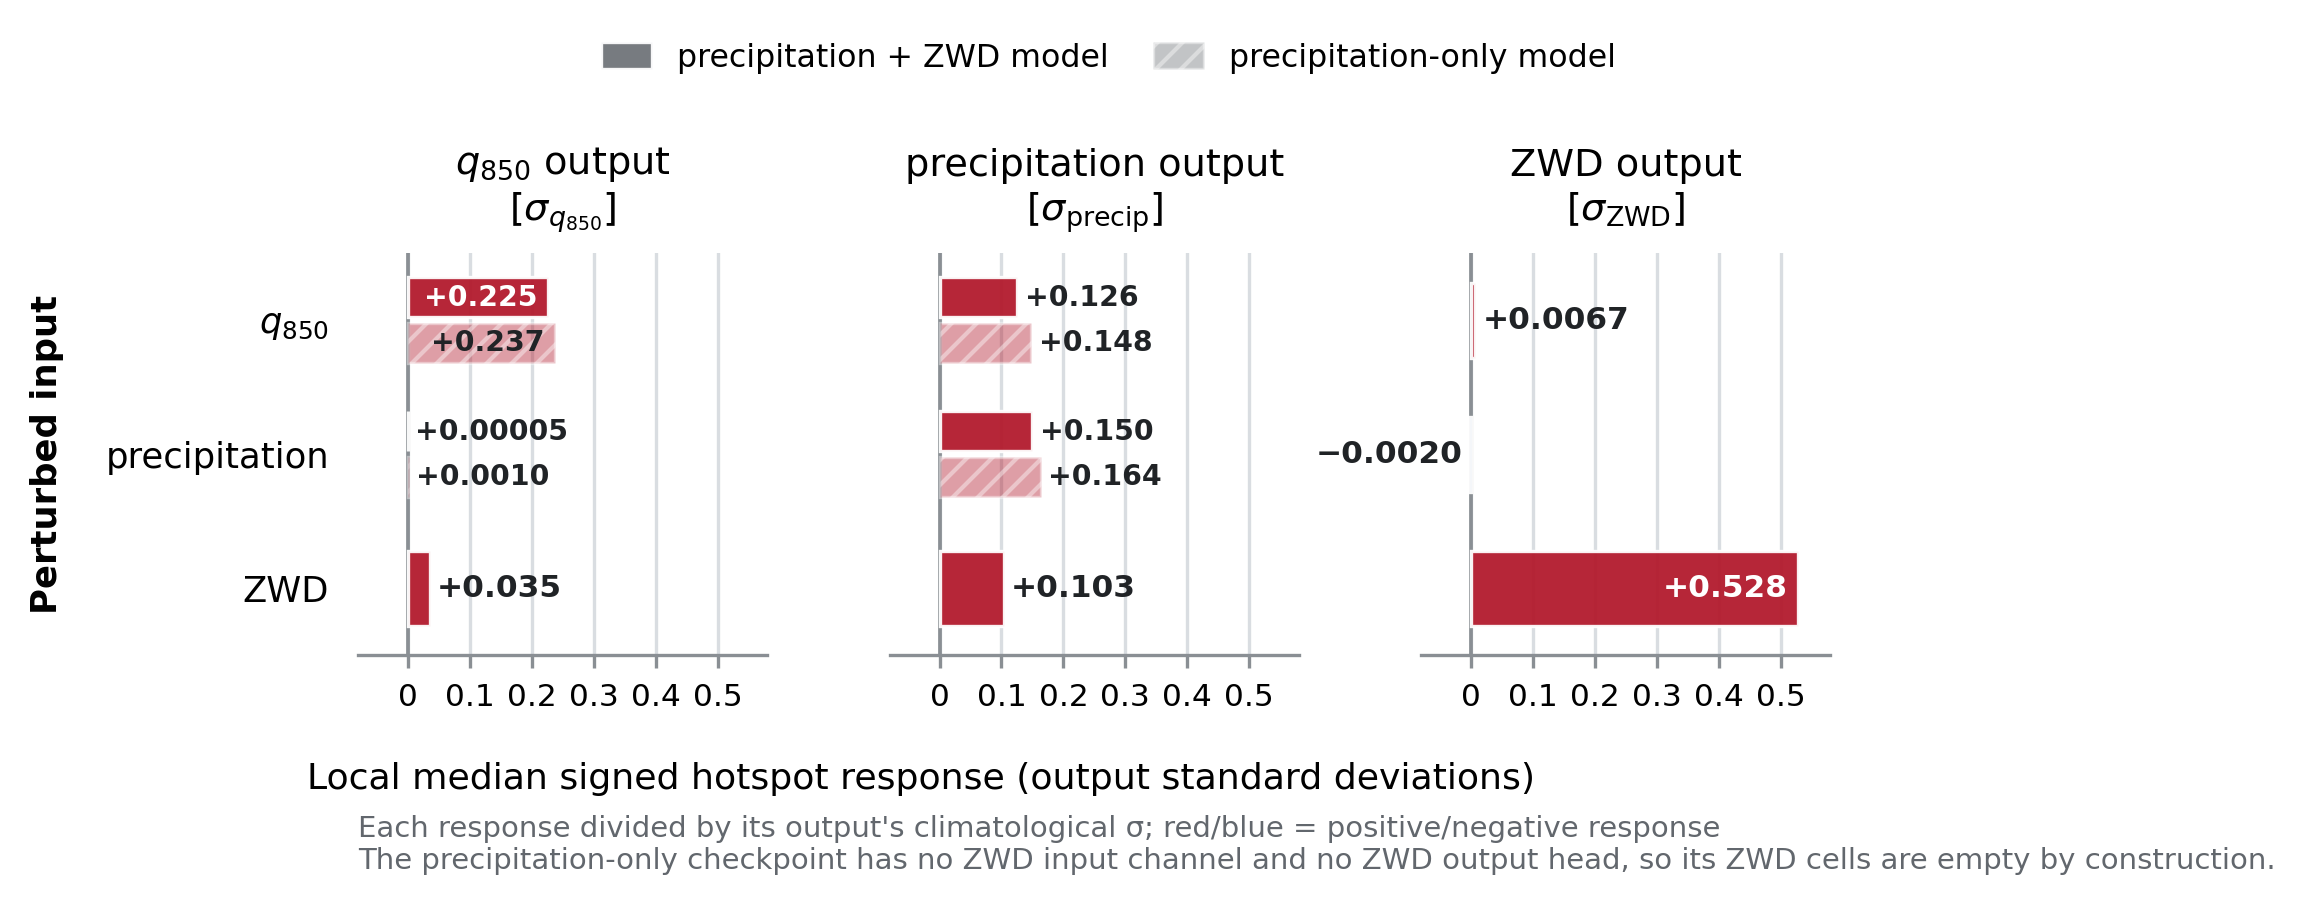
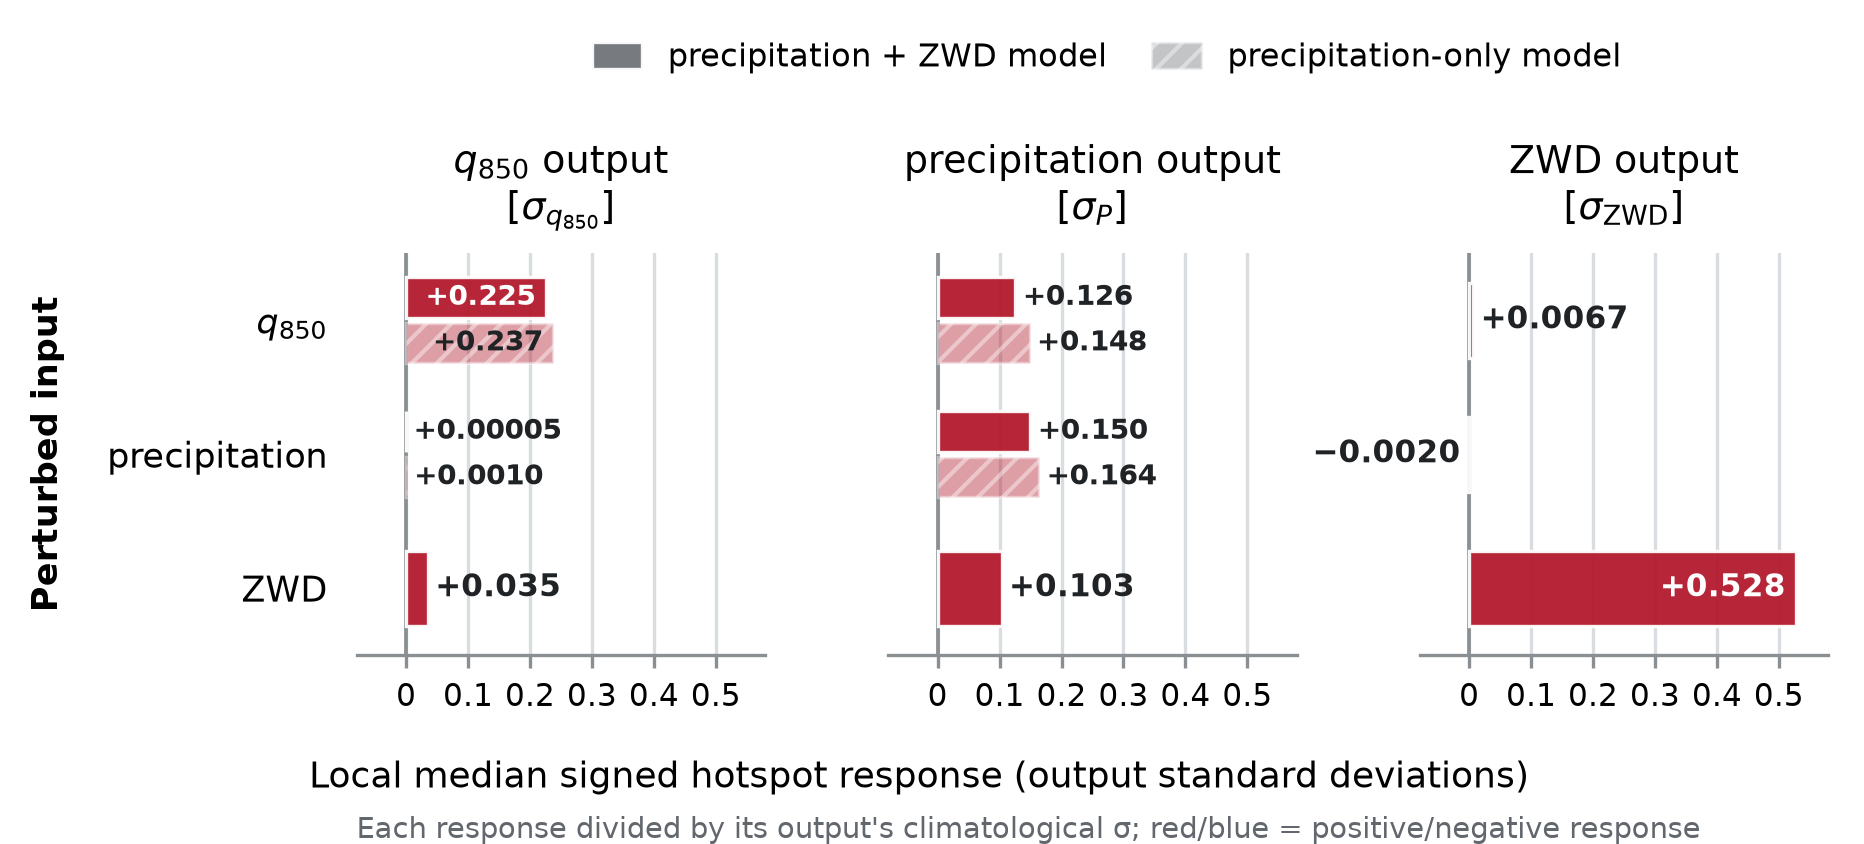
Add more figures from the thesis

diff --git a/08_internal_routing_and_activation_patching/README.md b/08_internal_routing_and_activation_patching/README.md
@@ -36,6 +36,13 @@ larger RMS hidden-state changes while producing far smaller output responses,
 and that cross-model CKA remains approximately 0.989--0.999. Hidden-state
 magnitude alone is therefore not an importance measure.
 
+![Target-level coupling between humidity, precipitation, and ZWD](../figures/target_coupling_bars.png)
+
+*Local median signed hotspot responses, standardized by each output's
+climatological standard deviation. Rows denote perturbed inputs and columns
+predicted outputs. Solid bars show the precipitation+ZWD model and hatched bars
+the precipitation-only model, whose ZWD row and column are empty by design.*
+
 The compact retained evidence is under `results/representation_trace/`:
 portable JSON run configurations, all-pair and stage-metric CSV aggregates,
 and `target_coupling_provenance.md`. These files reproduce the target-coupling
@@ -63,6 +70,14 @@ directory by default. Its JSON paths are portable substitutions for the
 original cluster paths, while measured values and case splits are unchanged.
 The two unit-test files validate mask downsampling, normalization, and
 aggregation without importing Aurora.
+
+![Activation-patching recovery for ZWD, humidity, and precipitation](../figures/large_activation_patch_unified_lead6.png)
+
+*Controlled activation-patching recovery at a 6 h lead for ZWD, specific
+humidity, and MSWEP precipitation, reported as medians over the same eight
+cases and 850 hPa specific-humidity target. ZWD is weighted toward the
+high-resolution encoder stage 0 skip, humidity retains more positive
+bottleneck recovery, and precipitation re-localizes in the late decoder.*
 
 Reproduce the paper's standardized coupling panel from the repository root
 with:

diff --git a/05_nanmadol_zwd_case_study/README.md b/05_nanmadol_zwd_case_study/README.md
@@ -12,6 +12,23 @@ storm center. Its pooled saliency is 7.1 times that of the low-near control and
 largest intensity and late-track response. This demonstrates model-internal
 relevance for one case; it is not a cyclone forecast benchmark.
 
+## Figures
+
+![ZWD saliency regions and perturbed Typhoon Nanmadol tracks](../figures/nanmadol_track_overlay.png)
+
+*ZWD attribution and perturbation analysis for Typhoon Nanmadol, initialized
+on 2022-09-17 at 12:00 UTC. The left panel shows smoothed saliency for the
++48 h intensity target and the selected regions. The right panel compares the
+IBTrACS best track with baseline and perturbed Aurora forecasts; hotspot
+perturbations produce the clearest late-lead divergence.*
+
+![Storm-centered ZWD saliency at 24, 48, and 72 hours](../figures/nanmadol_saliency_evolution.png)
+
+*Storm-centered sensitivity of the +24 h, +48 h, and +72 h intensity targets
+to initialized ZWD. The star marks the initialized cyclone center, the squares
+mark the lead-specific forecast target centers, and the circles indicate
+distances of 312, 937, and 1,250 km from each target center.*
+
 `results/storm_centered_xai/` versions the selected-region and saliency-summary
 JSON, while `results/track_perturbation/summary.json` records the perturbation
 setup. Machine-specific source paths were rewritten to repository-relative

diff --git a/07_zwd_precipitation_model_comparison/README.md b/07_zwd_precipitation_model_comparison/README.md
@@ -10,6 +10,16 @@ retained regenerated 22-row table gives 0.772; this 0.001 difference is below
 the precision of the scientific interpretation but is recorded here rather
 than hidden.
 
+## Figure
+
+![Precipitation and ZWD saliency maps and their signed difference](../figures/precip-zwd-saliency-alignment.png)
+
+*Unit-sum-normalized absolute input-gradient saliency of the +6 h 850 hPa
+specific-humidity target with respect to precipitation (left) and ZWD (center)
+in the precipitation+ZWD model for one representative target. Their signed
+difference (right) reveals a small spatial offset within the otherwise shared
+dominant sensitivity structure.*
+
 `cases_diagnostic_22.json` fixes the exact final cohort.
 `results/stage_b_reliance_summary.csv` is the versioned 22-row aggregate used
 for the reported saliency alignment. `cases_precipitation.json` and
@@ -20,7 +30,7 @@ workflow.
 humidity-target, and 2 m temperature IG controls used in the numerical
 validation appendix. The Stage-B comparison is recorded in its CSV aggregate.
 
-## Run the final saliency comparison
+## Run the saliency comparison
 
 Run in a GPU allocation:
 

diff --git a/03_zwd_moisture_relationships/README.md b/03_zwd_moisture_relationships/README.md
@@ -11,6 +11,15 @@ disk-mean ZWD and pressure-weighted column humidity, and 0.921 between
 disk-mean ZWD and 850 hPa humidity. The association is strongest in the lower
 and middle troposphere and weakens aloft.
 
+## Figure
+
+![Vertical ZWD-humidity correlations and the ZWD-column-humidity relationship](../figures/zwd_humidity_baseline.png)
+
+*ZWD-humidity baseline diagnostics. Left: monthly-standardized Spearman
+correlations between disk-mean ZWD and specific humidity by pressure level.
+Right: pooled target-wise standardized disk-mean ZWD and pressure-weighted
+column humidity. The annotated correlation retains the seasonal cycle.*
+
 The completed run's ranked numerical summary is versioned as
 `results/top_correlations.json`. The pipeline also produces the full time
 series and correlation matrices used by the figure scripts.

diff --git a/06_precipitation_moisture_relationships/README.md b/06_precipitation_moisture_relationships/README.md
@@ -15,6 +15,15 @@ mean absolute Spearman correlation is 0.328 for ZWD and 0.260 for humidity.
 The association rises slightly at six hours and decays to roughly 0.17--0.21
 at 24 hours.
 
+## Figures
+
+![Regional and lagged relationships between precipitation, ZWD, and humidity](../figures/p_moisture_coupling.png)
+
+*Association between MSWEP precipitation and atmospheric moisture in 2020.
+The left panel shows simultaneous mean absolute Spearman correlations for ZWD
+and humidity by region, with pooled estimates hatched. The right panel shows
+pooled correlations between moisture at time t and precipitation at t + lag.*
+
 `results/top_correlations.json` is the completed run's machine-readable ranked
 summary. The pipeline also produces the paired time series and full correlation
 matrix used by the retained plotting script.

diff --git a/02_zwd_attribution_benchmark/README.md b/02_zwd_attribution_benchmark/README.md
@@ -20,6 +20,15 @@ run. The single-case forward-method pilot used 1,200 RISE masks on a 72 by 144
 grid and 4,096 ViT-CX clusters. The fixed-cluster ViT-CX option and optional
 output smoothing in this copy match the final experiment code.
 
+## Figure
+
+![Reference response, saliency, and Integrated Gradients for the 36-hour Ticino benchmark](../figures/36h_searchlight.png)
+
+*Intervention-based reference response (left), saliency (center), and
+Integrated Gradients (right) for the Ticino case at a 36 h lead with local
+masks (sigma = 2.5 degrees). Both methods localize the influential region, but
+IG is less consistent in sign.*
+
 ## Versioned outputs
 
 `results/6h_box/` and `results/6h_point/` contain the full aggregate rows,

diff --git a/README.md b/README.md
@@ -14,6 +14,13 @@ and activation patching.
 
 ## Selected figures
 
+![Comparison of the adapted attribution methods used with Aurora](figures/xia-methods.png)
+
+*Schematic comparison of the adapted XAI methods. Saliency and Integrated
+Gradients compute signed, per-level attributions from gradients, whereas RISE
+and ViT-CX use random or encoder-derived masks to produce level-collapsed
+maps.*
+
 ![GeoXplain comparison of ZWD and temperature overlays beneath Integrated Gradients contours](figures/geoxplain/example_2_zwd.png)
 
 *GeoXplain places an Integrated Gradients explanation of a Zurich ZWD target in
